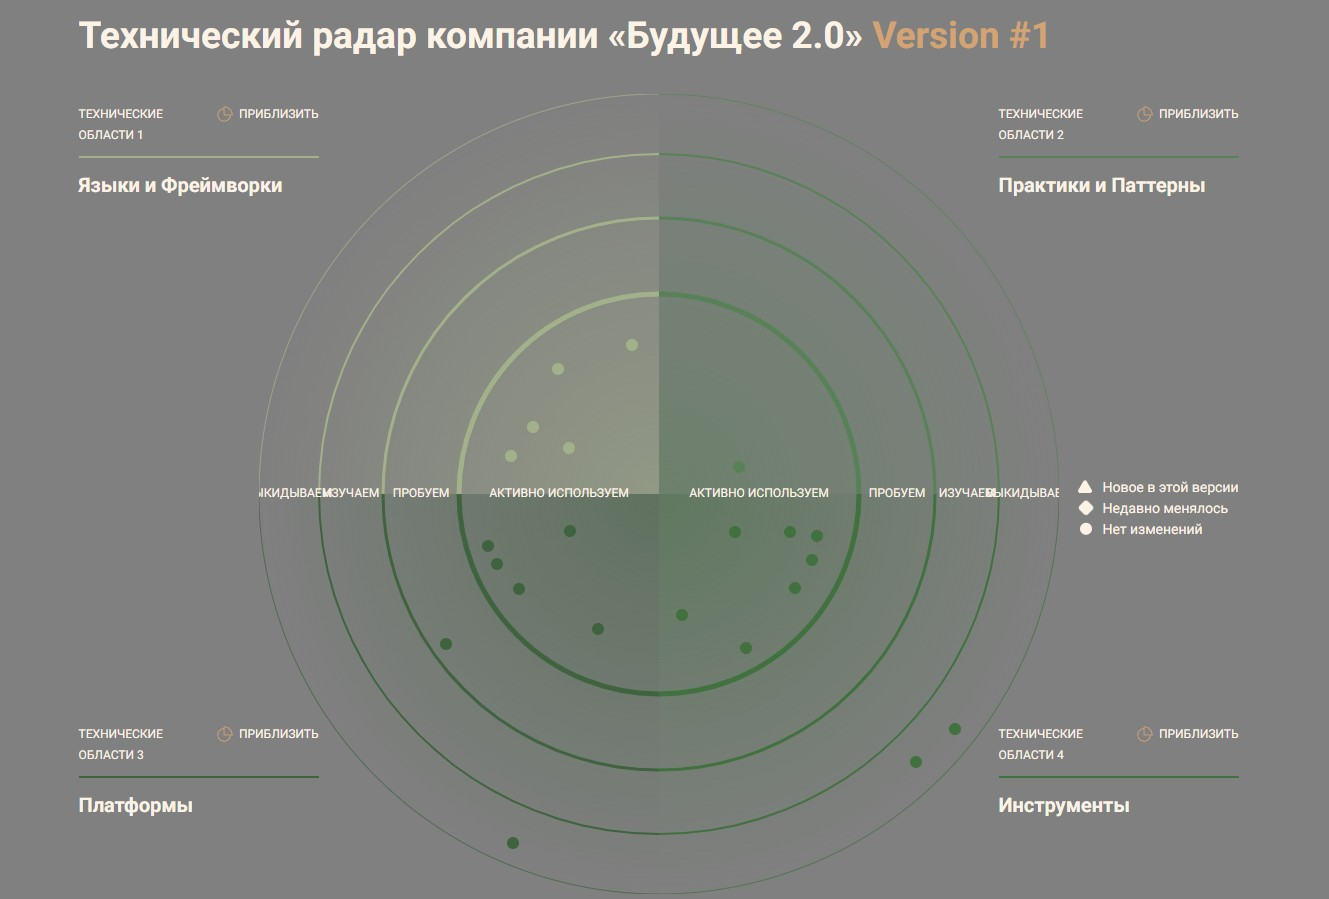
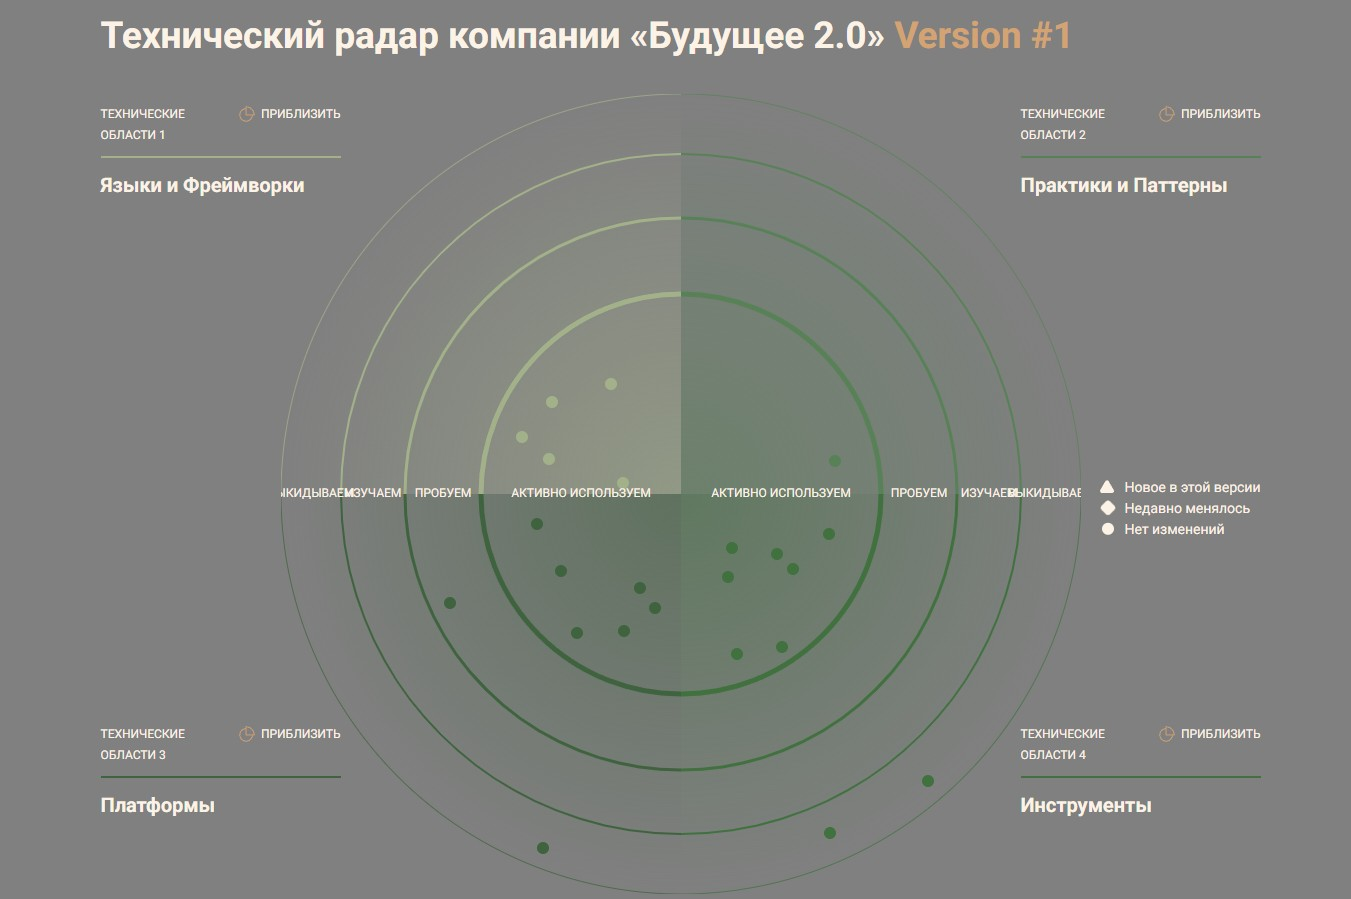
updated radar

diff --git a/Task3/README.md b/Task3/README.md
@@ -23,6 +23,7 @@
 | Apache Kafka         | Распределённый брокер сообщений | Асинхронный обмен событиями между доменами |
 | Apache Camel         | Платформа интеграции приложений | Интеграция с унаследованными системами. Можно будет отказаться по мере избавления от легаси систем |
 | Data Lakehouse с Apache Iceberg | Гибридное решение для хранения данных | Быстрое формирование отчётности |
+| Dremio               | Платформа анализа данных, позволяющая запрашивать данные из разных источников с помощью стандартного SQL | Быстрое формирование отчётности |
 | Data Mesh            | Децентрализованный подход к построению распределенной архитектуры данных | Интеграция новых бизнесов, автономное развитие направлений |
 | Keycloak             | Продукт для реализации single sign-on с возможностью управления доступом | Единая точка аутентификации и авторизации, централизованное управление доступом к данным, безопасная интеграция партнеров |
 | Kong Gateway         | API шлюз на базе Nginx | Единый API Gateway для всех доменов, безопасная интеграция партнеров, контроль трафика между сервисами |
@@ -44,10 +45,10 @@
 | -------------------------------- | ---------- | --------------------------------------------------------------- | ------------------------- | --------------------- |
 | Подготовка инфраструктуры | Q1–Q2 2026 | Внедрение Kubernetes, CI/CD, Terraform, Keycloak, Kong Gateway, Kafka, PostgreSQL, Data Lakehouse | DevOps | Облако |
 | Разделение на домены | Q1–Q2 2026 | Реализация подхода Data Mesh, выделение доменов Clinic, Fintech, AI, BI | Архитектурная команда | Kafka, DWH, DataOps |
-| Портал самообслуживания | Q2-Q4 2026 | Миграция данных в Data Lakehouse. Разработка портала, использование IAM, Power BI, тестирование. | BI, Frontend, Backend | Ресурсы на разработку |
+| Портал самообслуживания | Q2-Q4 2026 | Миграция данных в Data Lakehouse, внедрение Airflow. Разработка портала, использование IAM, Power BI, Dremio, тестирование. | BI, Frontend, Backend | Ресурсы на разработку, IAM, Power BI, Dremio |
 | Мониторинг и контроль качества | Q1–Q2 2026 | Настройка Prometheus, Grafana, Jaeger, дашбордов качества, внедрение библиотек OpenTelemetry для сбора телеметрии | DevOps, Frontend, Backend | Ресурсы на разработку |
 | Интеграция с внешними партнёрами | Q3 2026 | Интеграция с партнерами (фармацевтика и электроника) через API | Backend | Ресурсы на разработку, API Gateway |
-| AI-интеграции и аналитика | Q4 2026 | Внедрение Airflow, подключение AI к медицинским данным | Команда Data Science и AI | GPU |
+| AI-интеграции и аналитика | Q4 2026 | Подключение AI к медицинским данным, настройка ИИ моделей | Команда Data Science и AI | GPU |
 
 
 ### 3. Обоснование изменений
